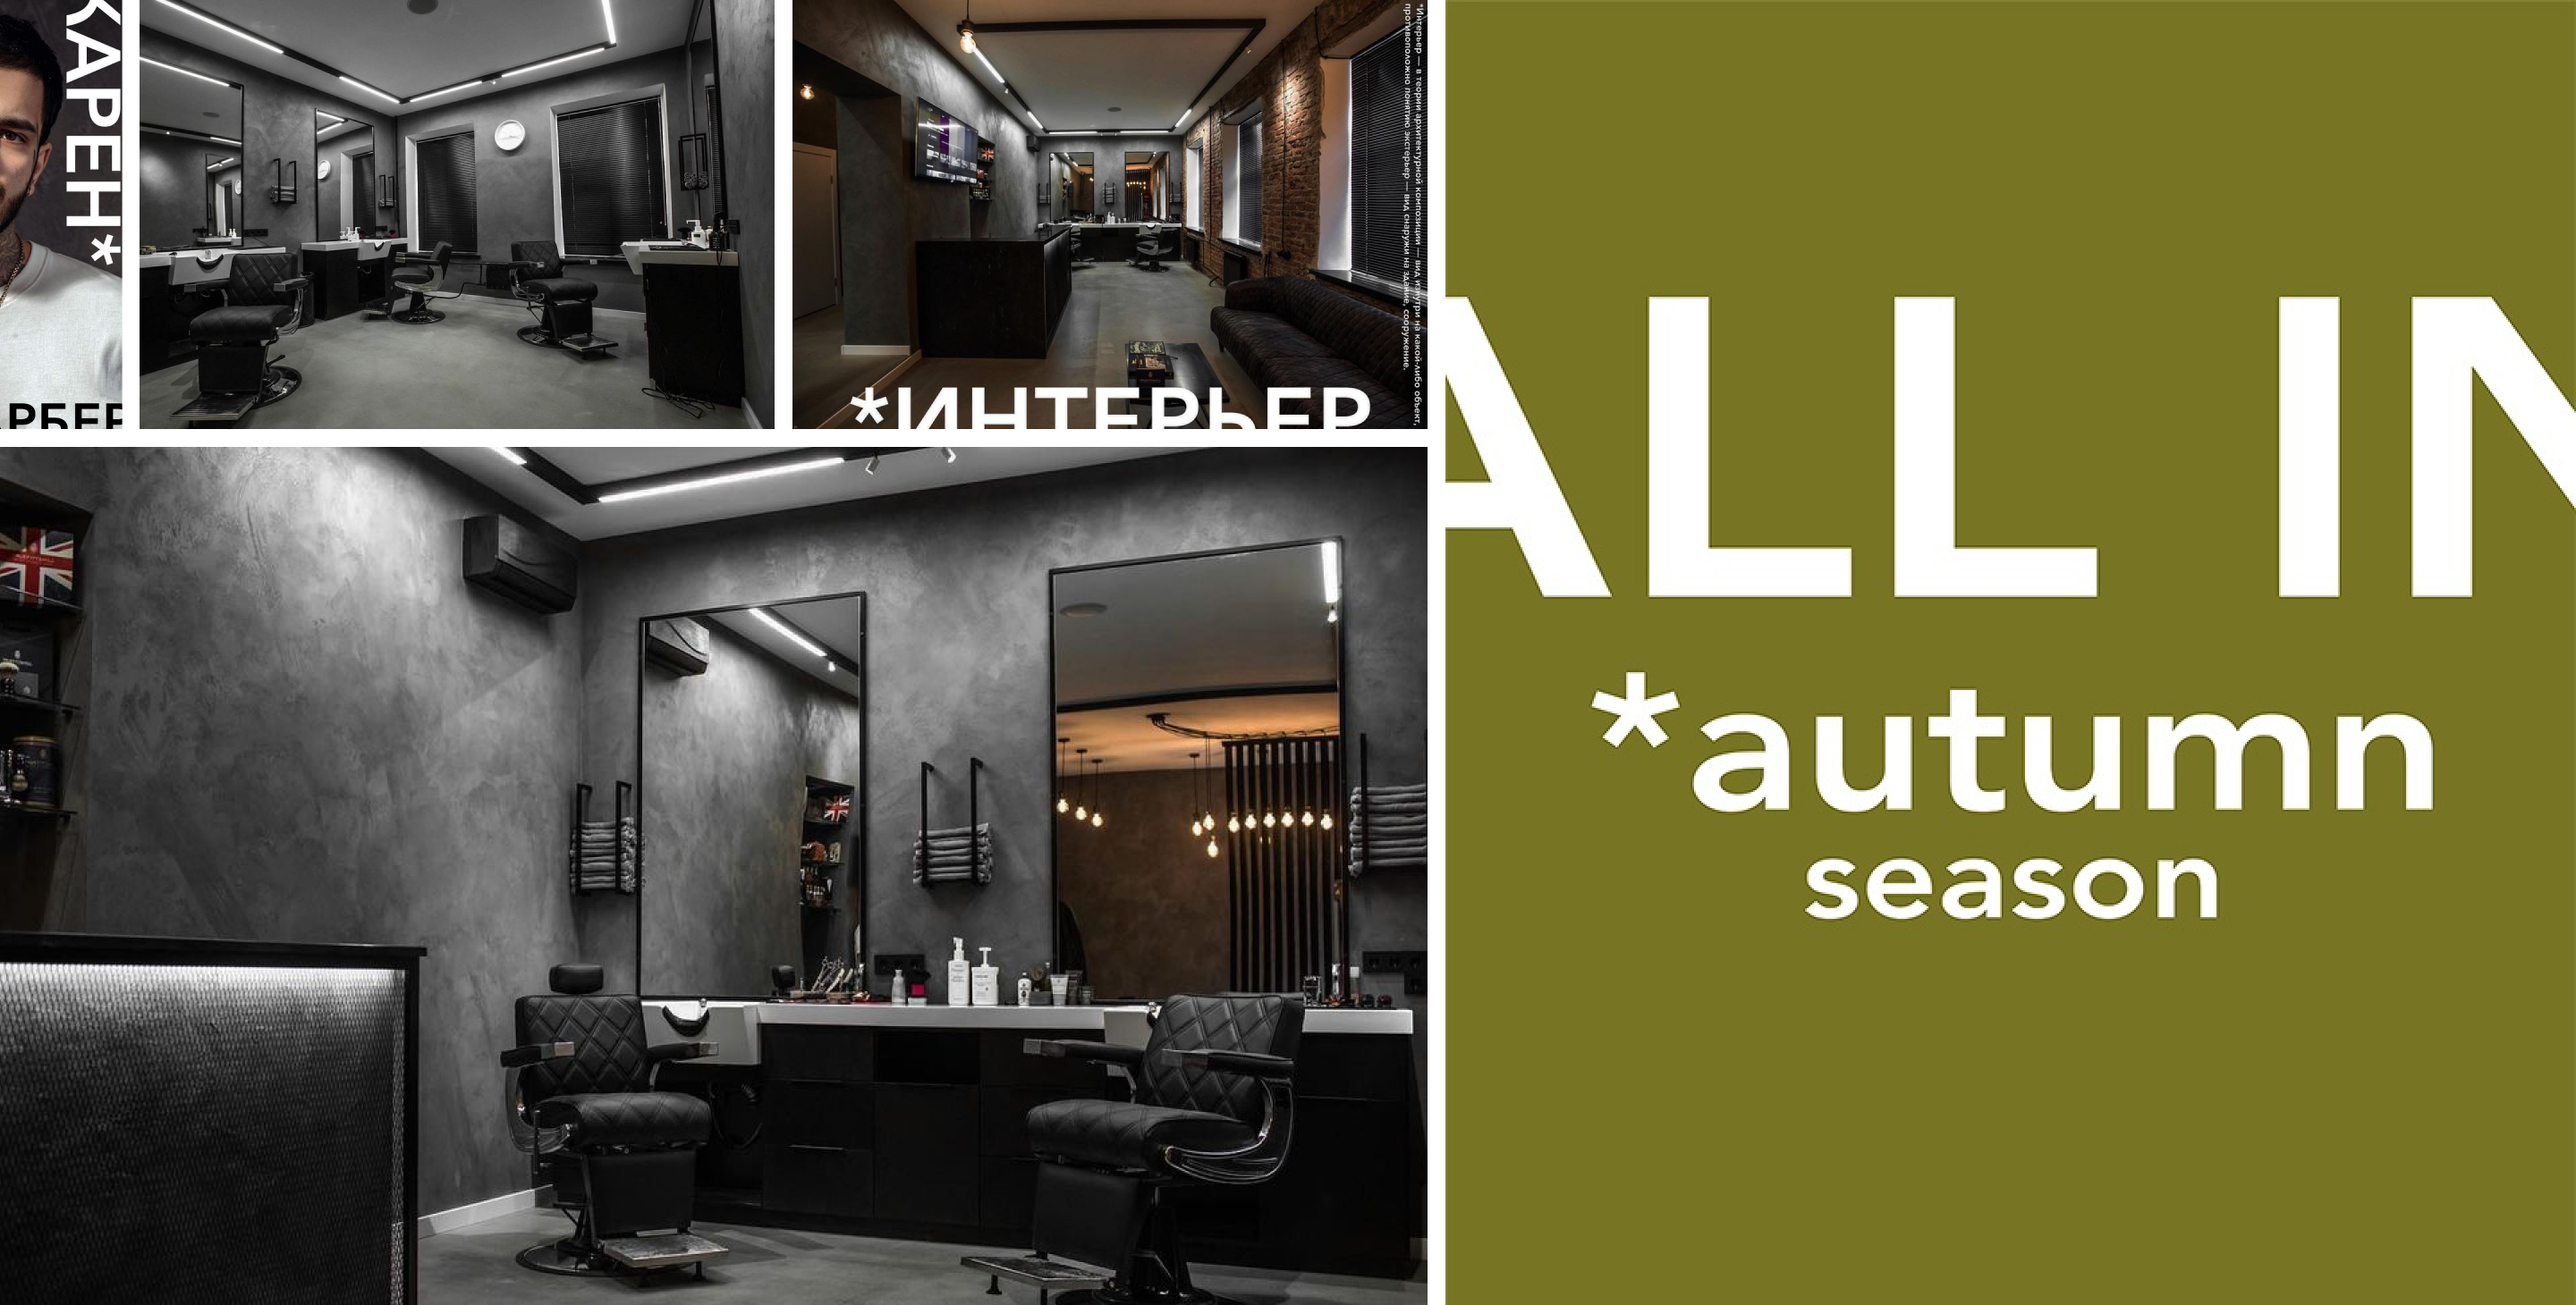
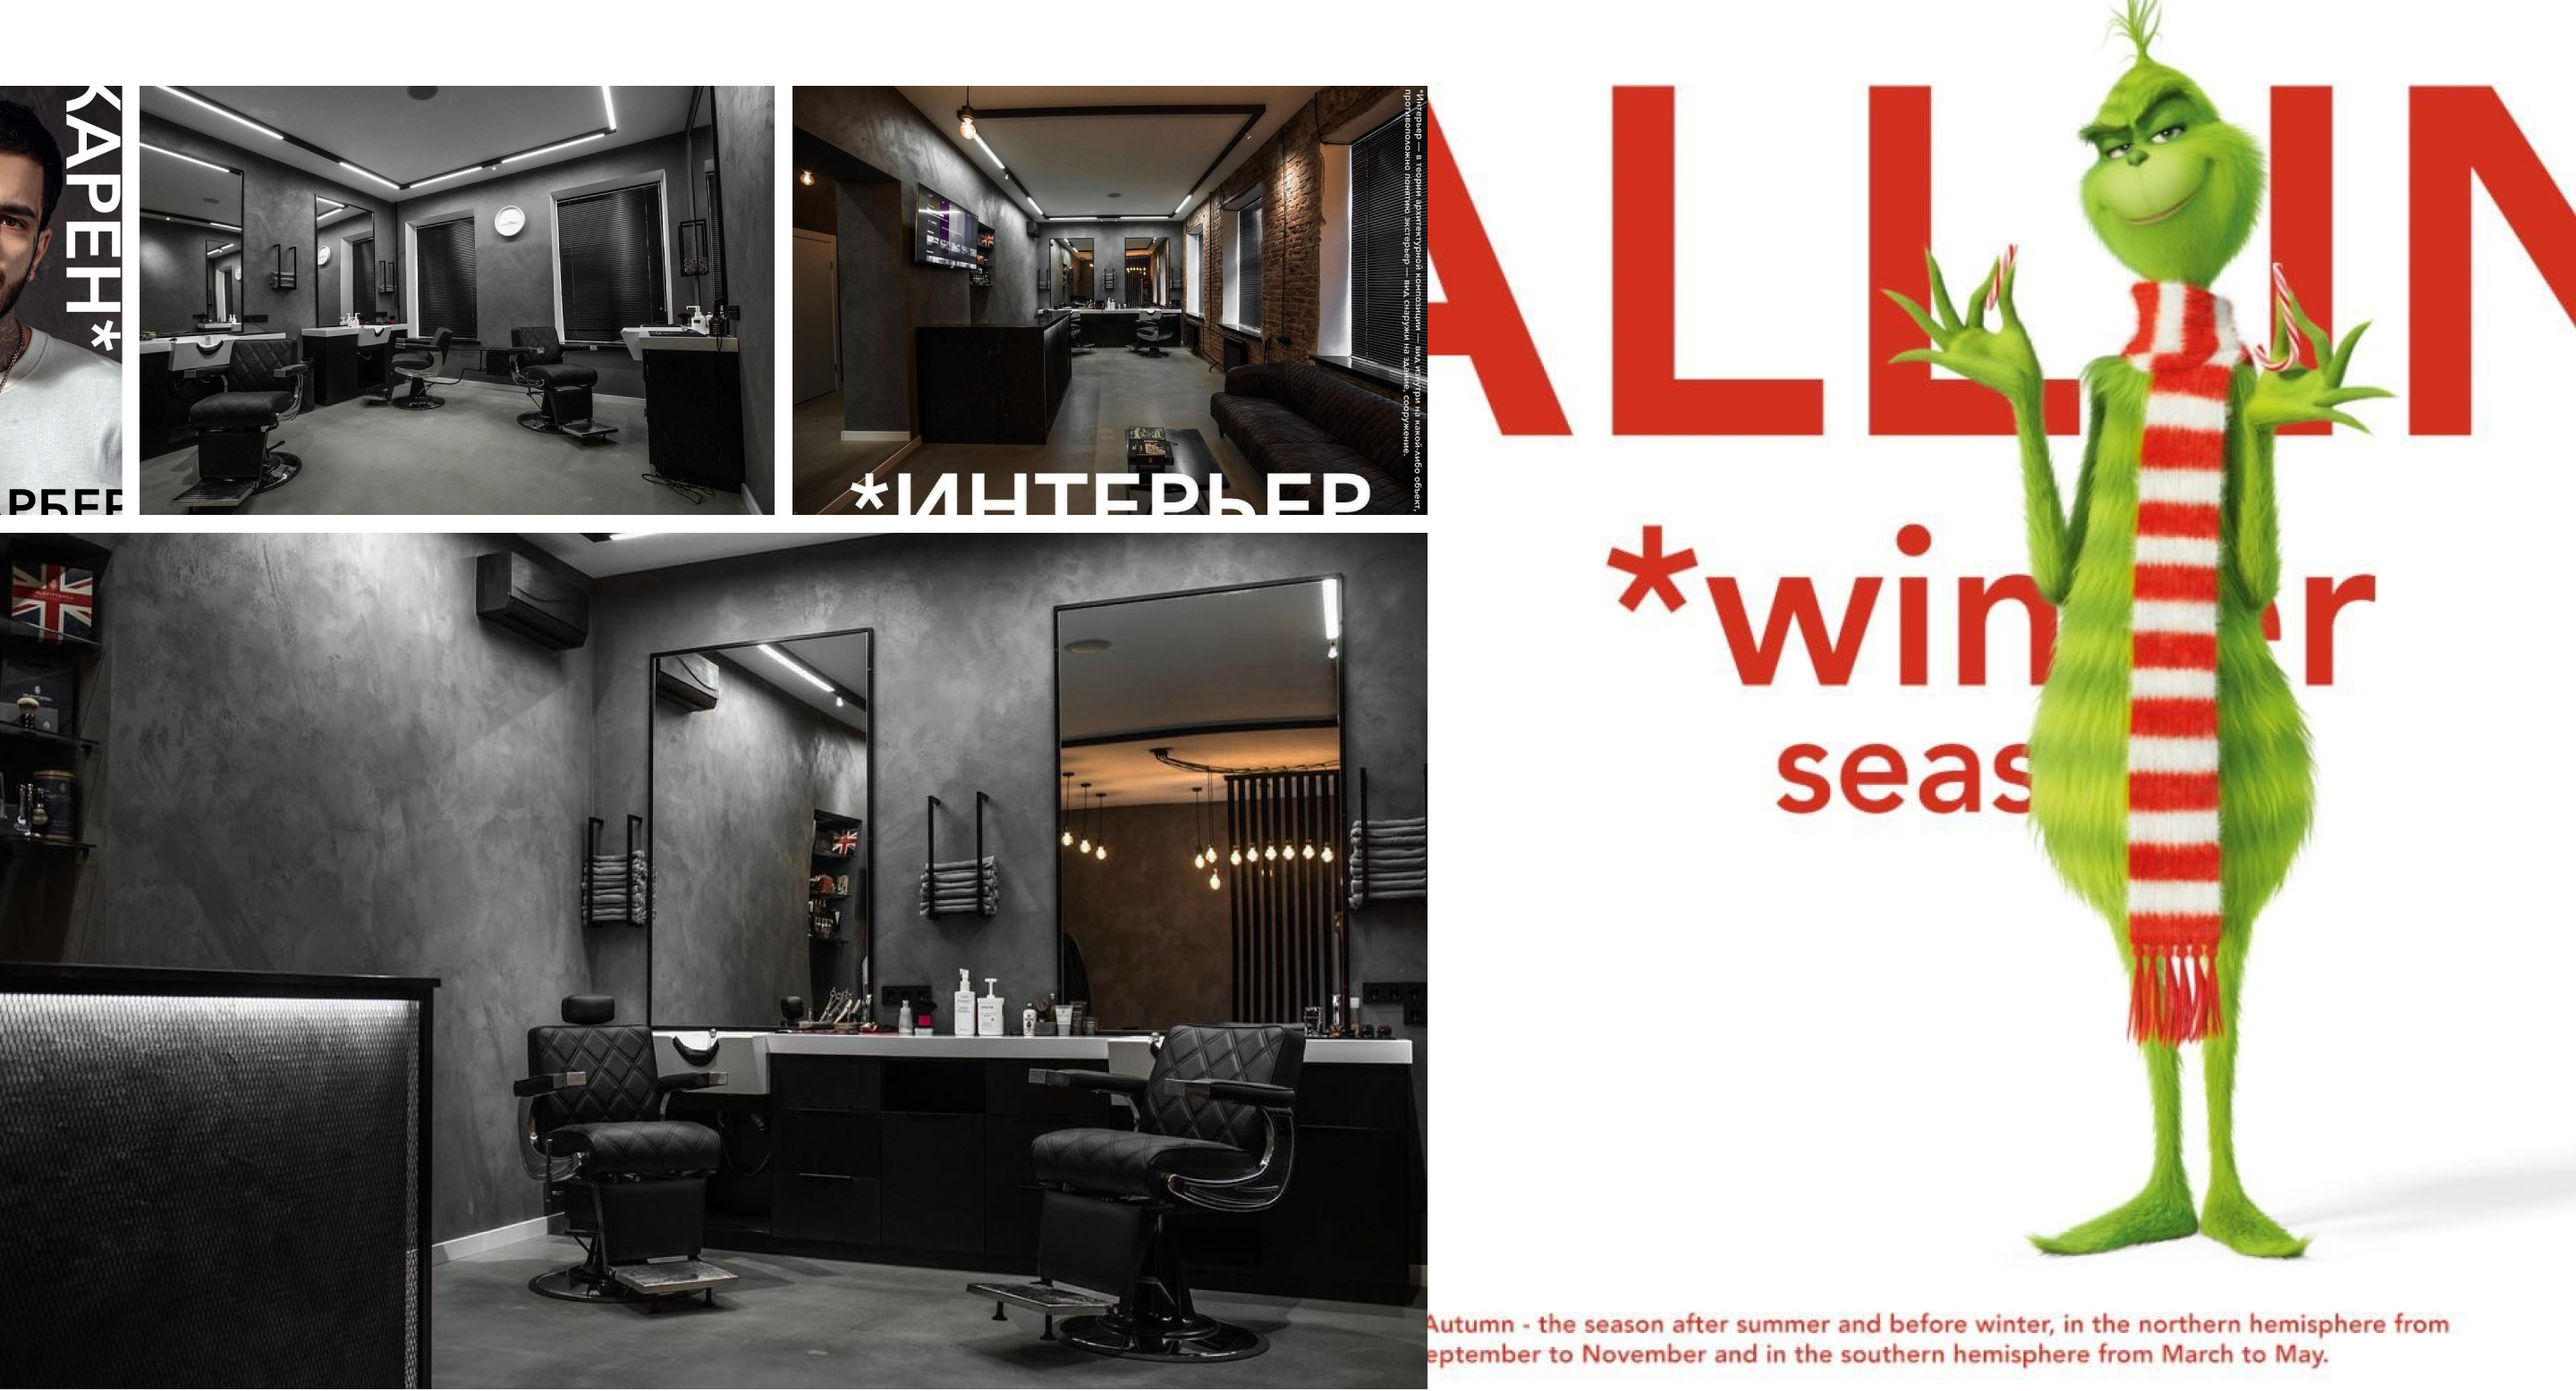
winter update

diff --git a/pages/index.jsx b/pages/index.jsx
@@ -14,7 +14,7 @@ import ContactsFrame from '../pagesAssets/Index/ContactsFrame';
 
 // styles
 import styles from '../pagesAssets/Index/style.module.css';
-import Widget from "../components/Widget";
+import Widget from '../components/Widget';
 
 const frameMap = {
   order: <OrderFrame />,
@@ -36,26 +36,26 @@ const Index = () => {
         <title>All IN - barbers and more</title>
         <meta
           name="description"
-          content='All IN - это не просто барбершоп.Это место, в котором мы собрали профессионалов с многолетним опытом работы и им доверяем.Мы создали пространство где можно не думать о результате, потому что он всегда будет предвосхищать, ведь за вашу голову мы отвечаем своей.'
+          content="All IN - это не просто барбершоп.Это место, в котором мы собрали профессионалов с многолетним опытом работы и им доверяем.Мы создали пространство где можно не думать о результате, потому что он всегда будет предвосхищать, ведь за вашу голову мы отвечаем своей."
         />
         <link rel="icon" href="/header/all-in-logo.svg" />
-        <link rel='canonical' href='https://all-in-barbers.com' />
-        <meta name='viewport' content='width=device-width,initial-scale=1:2'/>
-        <meta content='true' name='HandheldFriendly'/>
-        <meta content='width' name='MobileOptimized'/>
-        <meta content='yes' name='apple-mobile-web-app-capable'/>
-        <meta property="twitter:title" content='All IN - barbers and more' />
-        <meta property="twitter:url" content='https://all-in-barbers.com' />
-        <meta property="twitter:creator" content='https://all-in-barbers.com' />
-        <meta property="twitter:description" content='All IN - это не просто барбершоп.Это место, в котором мы собрали профессионалов с многолетним опытом работы и им доверяем.Мы создали пространство где можно не думать о результате, потому что он всегда будет предвосхищать, ведь за вашу голову мы отвечаем своей.' />
-        <meta property="twitter:site" content='https://all-in-barbers.com' />
+        <link rel="canonical" href="https://all-in-barbers.com" />
+        <meta name="viewport" content="width=device-width,initial-scale=1:2" />
+        <meta content="true" name="HandheldFriendly" />
+        <meta content="width" name="MobileOptimized" />
+        <meta content="yes" name="apple-mobile-web-app-capable" />
+        <meta property="twitter:title" content="All IN - barbers and more" />
+        <meta property="twitter:url" content="https://all-in-barbers.com" />
+        <meta property="twitter:creator" content="https://all-in-barbers.com" />
+        <meta property="twitter:description" content="All IN - это не просто барбершоп.Это место, в котором мы собрали профессионалов с многолетним опытом работы и им доверяем.Мы создали пространство где можно не думать о результате, потому что он всегда будет предвосхищать, ведь за вашу голову мы отвечаем своей." />
+        <meta property="twitter:site" content="https://all-in-barbers.com" />
 
-        <meta property="og:type" content='product' />
-        <meta property="og:url" content='https://all-in-barbers.com' />
-        <meta property="og:title" content='All IN - barbers and more' />
-        <meta property="og:image" content='/header/logo.jpg' />
-        <meta property="og:description" content='All IN - это не просто барбершоп.Это место, в котором мы собрали профессионалов с многолетним опытом работы и им доверяем.Мы создали пространство где можно не думать о результате, потому что он всегда будет предвосхищать, ведь за вашу голову мы отвечаем своей.' />
-        <meta property="og:site_name" content='https://all-in-barbers.com' />
+        <meta property="og:type" content="product" />
+        <meta property="og:url" content="https://all-in-barbers.com" />
+        <meta property="og:title" content="All IN - barbers and more" />
+        <meta property="og:image" content="/header/logo.jpg" />
+        <meta property="og:description" content="All IN - это не просто барбершоп.Это место, в котором мы собрали профессионалов с многолетним опытом работы и им доверяем.Мы создали пространство где можно не думать о результате, потому что он всегда будет предвосхищать, ведь за вашу голову мы отвечаем своей." />
+        <meta property="og:site_name" content="https://all-in-barbers.com" />
       </Head>
       <div className={styles.pageContainer}>
         <div className={styles.pageWrapper}>

diff --git a/pagesAssets/Index/OrderFrame/index.jsx b/pagesAssets/Index/OrderFrame/index.jsx
@@ -1,15 +1,14 @@
 import React, { useState, useEffect } from 'react';
 import { useSelector, useDispatch } from 'react-redux';
-import {setPartVisibility} from '../../../action/app';
 import cn from 'classnames';
-import { setWidget } from "../../../action/app";
+import { setPartVisibility, setWidget } from '../../../action/app';
 
 // customHooks
 import useScreen from '../../../customHooks/useScreen';
 
 // styles
 import styles from './styles.module.css';
-import Button from "../../../components/MainButton";
+import Button from '../../../components/MainButton';
 
 const iframeUrl = 'https://n451950.yclients.com/company:428417/idx:0/master?o=m1246829';
 const iosAppLink = 'https://apps.apple.com/ru/app/all-in-barbers-and-more/id1557949058';
@@ -28,7 +27,7 @@ const OrderFrame = () => {
 
   useEffect(() => {
     setTimeout(() => dispatch(setPartVisibility(true), 50));
-  }, [])
+  }, []);
 
   return (
     <div className={styles.frameWrapper}>
@@ -51,23 +50,29 @@ const OrderFrame = () => {
       </div>
       <div className={cn(styles.rightPart, {
         [styles.showRightPart]: showParts,
-      })}>
+      })}
+      >
         <div className={styles.slogan}>
-          <div className={styles.accent}>ALL IN *summer season</div>
+          <div className={styles.accent}>ALL IN *winter season</div>
         </div>
         <div className={styles.heading}>
           <h1 className={styles.mainTitle}>ЗА ВАШУ ГОЛОВУ МЫ ОТВЕЧАЕМ СВОЕЙ</h1>
         </div>
         <div className={styles.buttonsBlock}>
-          <Button className={styles.orderBtn} onClick={() => dispatch(setWidget({widget: true, iframeUrl}))} >Записаться</Button>
-          <a href={iosAppLink} target='_blank'>
+          <Button
+            className={styles.orderBtn}
+            onClick={() => dispatch(setWidget({ widget: true, iframeUrl }))}
+          >
+            Записаться
+          </Button>
+          <a href={iosAppLink} target="_blank" rel="noreferrer">
             <Button className={styles.storeLink} isStore>
-              <img className={styles.storeImg} src="store/apple.svg" alt='app-store-svg'/>
+              <img className={styles.storeImg} src="store/apple.svg" alt="app-store-svg" />
             </Button>
           </a>
-          <a href={googlePlayLink} target='_blank'>
+          <a href={googlePlayLink} target="_blank" rel="noreferrer">
             <Button className={styles.storeLink} isStore>
-              <img className={styles.storeImg} src="store/google.svg" alt='app-store-svg'/>
+              <img className={styles.storeImg} src="store/google.svg" alt="app-store-svg" />
             </Button>
           </a>
         </div>

diff --git a/components/Widget/index.jsx b/components/Widget/index.jsx
@@ -1,20 +1,20 @@
-import React, {useState, useEffect, useRef} from 'react';
+import React, { useState, useEffect, useRef } from 'react';
 import cn from 'classnames';
-import styles from "./style.module.css";
-import { useSelector, useDispatch } from "react-redux";
+import { useSelector, useDispatch } from 'react-redux';
+import styles from './style.module.css';
 import { setWidget } from '../../action/app';
 
 const Widget = () => {
-  const {widget, iframeUrl} = useSelector(s => ({
+  const { widget, iframeUrl } = useSelector((s) => ({
     widget: s.app.widget,
     iframeUrl: s.app.iframeUrl,
-  }))
-  const dispatch = useDispatch()
+  }));
+  const dispatch = useDispatch();
   const iframeEl = useRef();
   const [closeBtnAnimation, setAnimation] = useState(false);
   const clickHandler = (e) => {
     if (widget && !iframeEl.current.contains(e.target)) {
-      dispatch(setWidget({widget: false}));
+      dispatch(setWidget({ widget: false }));
     }
   };
 
@@ -25,7 +25,6 @@ const Widget = () => {
     };
   }, [widget]);
 
-
   return (
     <div className={cn(styles.widgetContainer, {
       [styles.active]: widget,
@@ -35,7 +34,7 @@ const Widget = () => {
         <button
           type="button"
           className={styles.closeBtn}
-          onClick={() => dispatch(setWidget({widget: false}))}
+          onClick={() => dispatch(setWidget({ widget: false }))}
         >
           <img
             onMouseEnter={() => setAnimation(true)}
@@ -55,7 +54,7 @@ const Widget = () => {
         />
       </div>
     </div>
-  )
-}
+  );
+};
 
 export default Widget;

diff --git a/pagesAssets/Index/OrderFrame/styles.module.css b/pagesAssets/Index/OrderFrame/styles.module.css
@@ -97,7 +97,7 @@
   align-items: center;
   position: relative;
   padding: 6px 82px 6px 0;
-  background: #777423;
+  background: #d3301f;
   color: white;
   width: 100%;
   overflow: hidden;

diff --git a/styles/globals.css b/styles/globals.css
@@ -21,7 +21,7 @@ h1,h2,h3,p {
 }
 
 ::selection {
-  background: #777423;
+  background: #d3301f;
   color: white;
 }
 
